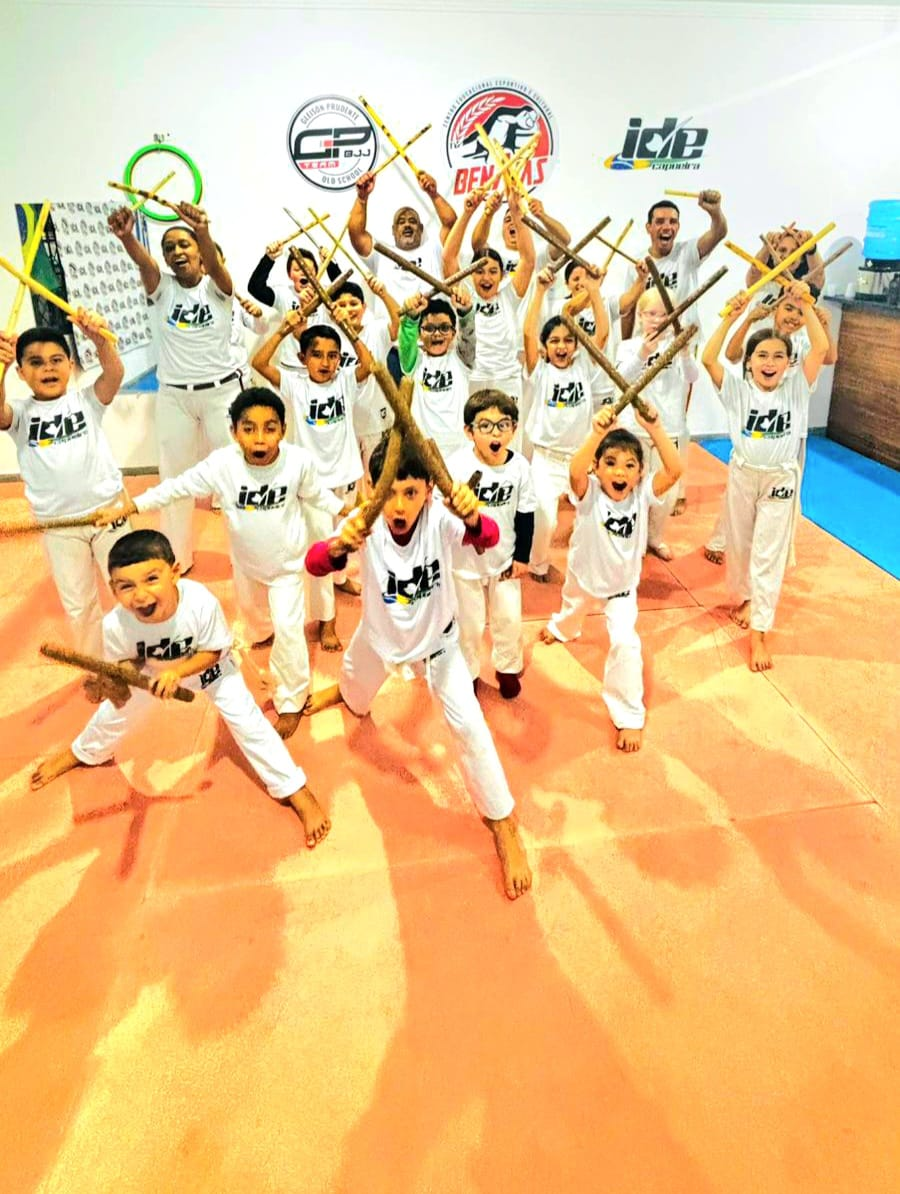
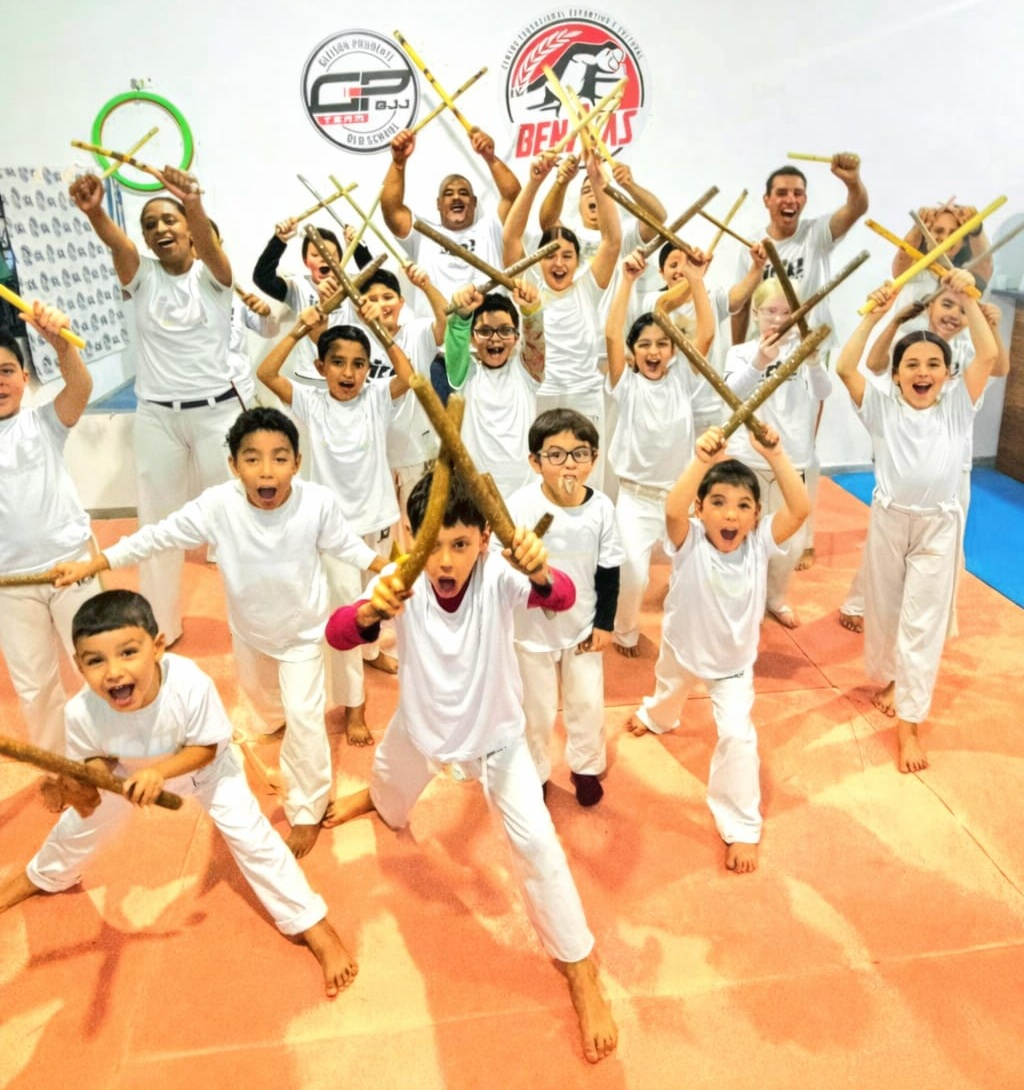
atualizando fotos, retirando ide capoeira

diff --git a/src/app/page.tsx b/src/app/page.tsx
@@ -8,7 +8,7 @@ import { Card, CardContent } from "@/components/ui/card";
 import { Users, Music, Dumbbell, Heart, X } from "lucide-react";
 import { useState } from "react";
 import perfil from "@/assets/images/rafaperfil.png";
-import hero from "@/assets/images/capa-hero2.png";
+import hero from "@/assets/images/capa-hero.jpeg";
 import Footer from "@/components/footer/footer";
 
 import Header from "@/components/header/header";
@@ -16,7 +16,7 @@ import SponsorLogos from "@/components/parceiros/parceiros";
 
 import tiorafa1 from "@/assets/images/parceiros/tiorafa1.jpg";
 import tiorafa2 from "@/assets/images/parceiros/tiorafa2.jpg";
-import logo from "@/assets/images/logo-2.jpg";
+import logo from "@/assets/images/parceiros/benaias.jpeg";
 
 export default function HomePage() {
   const [isVideoModalOpen, setIsVideoModalOpen] = useState(false);

diff --git a/src/app/capoeira/page.tsx b/src/app/capoeira/page.tsx
@@ -4,10 +4,10 @@ import { Card, CardContent } from "@/components/ui/card";
 import Footer from "@/components/footer/footer";
 import Header from "@/components/header/header";
 
-import angola from "@/assets/images/capoeira/angola.jpg";
+import angola from "@/assets/images/capoeira/angola.jpeg";
 import regional from "@/assets/images/capoeira/cap-12.jpeg";
-import contemporanea from "@/assets/images/capoeira/contemporanea.png";
-import maculele from "@/assets/images/capoeira/maculelee.png";
+import contemporanea from "@/assets/images/capoeira/contemp.jpeg";
+import maculele from "@/assets/images/capoeira/maculele.png";
 
 const lutas = [
   {

diff --git a/src/components/parceiros/parceiros.tsx b/src/components/parceiros/parceiros.tsx
@@ -22,14 +22,11 @@ const sponsors: Sponsor[] = [
   {
     name: "BF Gestão",
     src: bf,
-    link: "https://bfgestao.com",
+    // link: "https://bfgestao.com",
   },
   { name: "IEVP", src: ievp },
-  { name: "IEVP", src: pincelmagico },
-  {
-    name: "Klebão Loko",
-    src: klebao,
-  },
+  { name: "Pincel Mágico", src: pincelmagico },
+  { name: "Klebão Loko", src: klebao},
   { name: "Colégio Nascimento", src: cnascimento },
   { name: "Colégio Referência", src: creferencia },
 ];

diff --git a/src/app/loja/page.tsx b/src/app/loja/page.tsx
@@ -11,7 +11,7 @@ import { StaticImageData } from "next/image";
 import camisaRosa from "@/assets/images/loja/camisa-preta.jpg";
 import camisaVerde from "@/assets/images/loja/camisa-verde.jpg";
 
-import camisaCalca from "@/assets/images/loja/camisa-calca.jpg";
+import camisaCalca from "@/assets/images/loja/camisa-calca.jpeg";
 
 import moletonPreto from "@/assets/images/loja/meleton-preto.jpg";
 import moletonBranco from "@/assets/images/loja/moleton-branco.jpg";

diff --git a/src/app/galeria/page.tsx b/src/app/galeria/page.tsx
@@ -9,7 +9,7 @@ import Header from "@/components/header/header";
 import ImageModal, { Foto } from "@/components/imagens/imageModals";
 
 // Importações das imagens
-import img1 from "@/assets/images/galeria/img1.jpg";
+import img1 from "@/assets/images/galeria/img1.jpeg";
 import img2 from "@/assets/images/galeria/img2.jpg";
 import img3 from "@/assets/images/galeria/img3.jpg";
 import img4 from "@/assets/images/galeria/img4.jpg";

diff --git a/src/app/professor/page.tsx b/src/app/professor/page.tsx
@@ -5,7 +5,7 @@ import { Button } from "@/components/ui/button";
 import { Card, CardContent } from "@/components/ui/card";
 import { Award, BookOpen, Users, Heart } from "lucide-react";
 
-import perfil from "@/assets/images/img9.jpg";
+import perfil from "@/assets/images/rafaperfil.png";
 import Footer from "@/components/footer/footer";
 
 import Header from "@/components/header/header";

diff --git a/src/app/programas/page.tsx b/src/app/programas/page.tsx
@@ -145,7 +145,7 @@ const programas = [
         "Cultura musical",
       ],
     },
-    imagem: "/music.jpeg?height=300&width=400",
+    imagem: "/musica.jpeg?height=300&width=400",
   },
 ];
 
